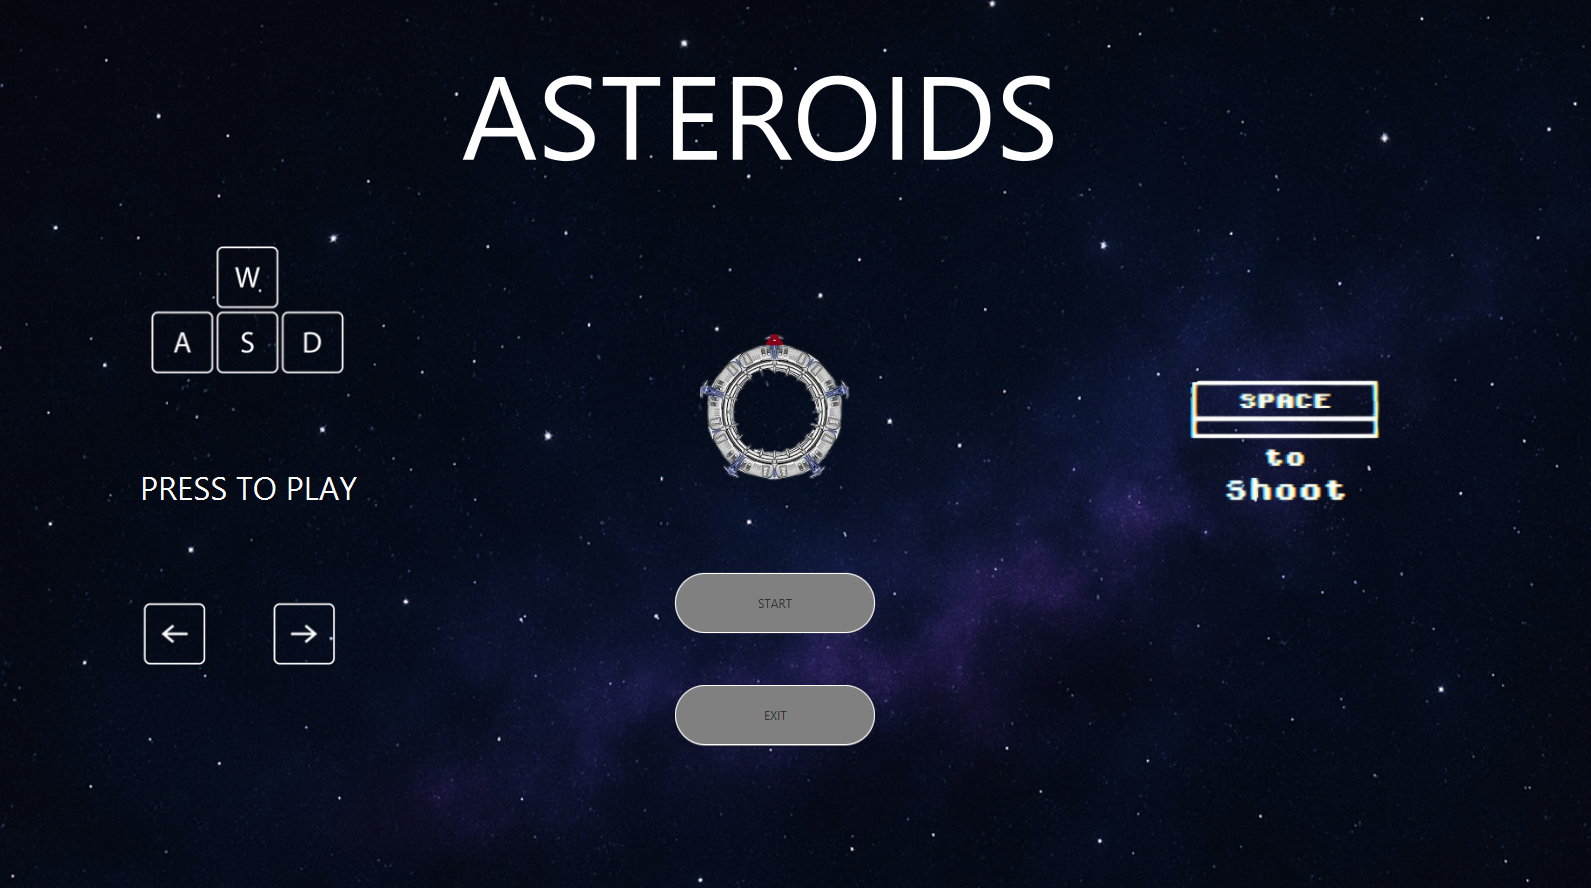
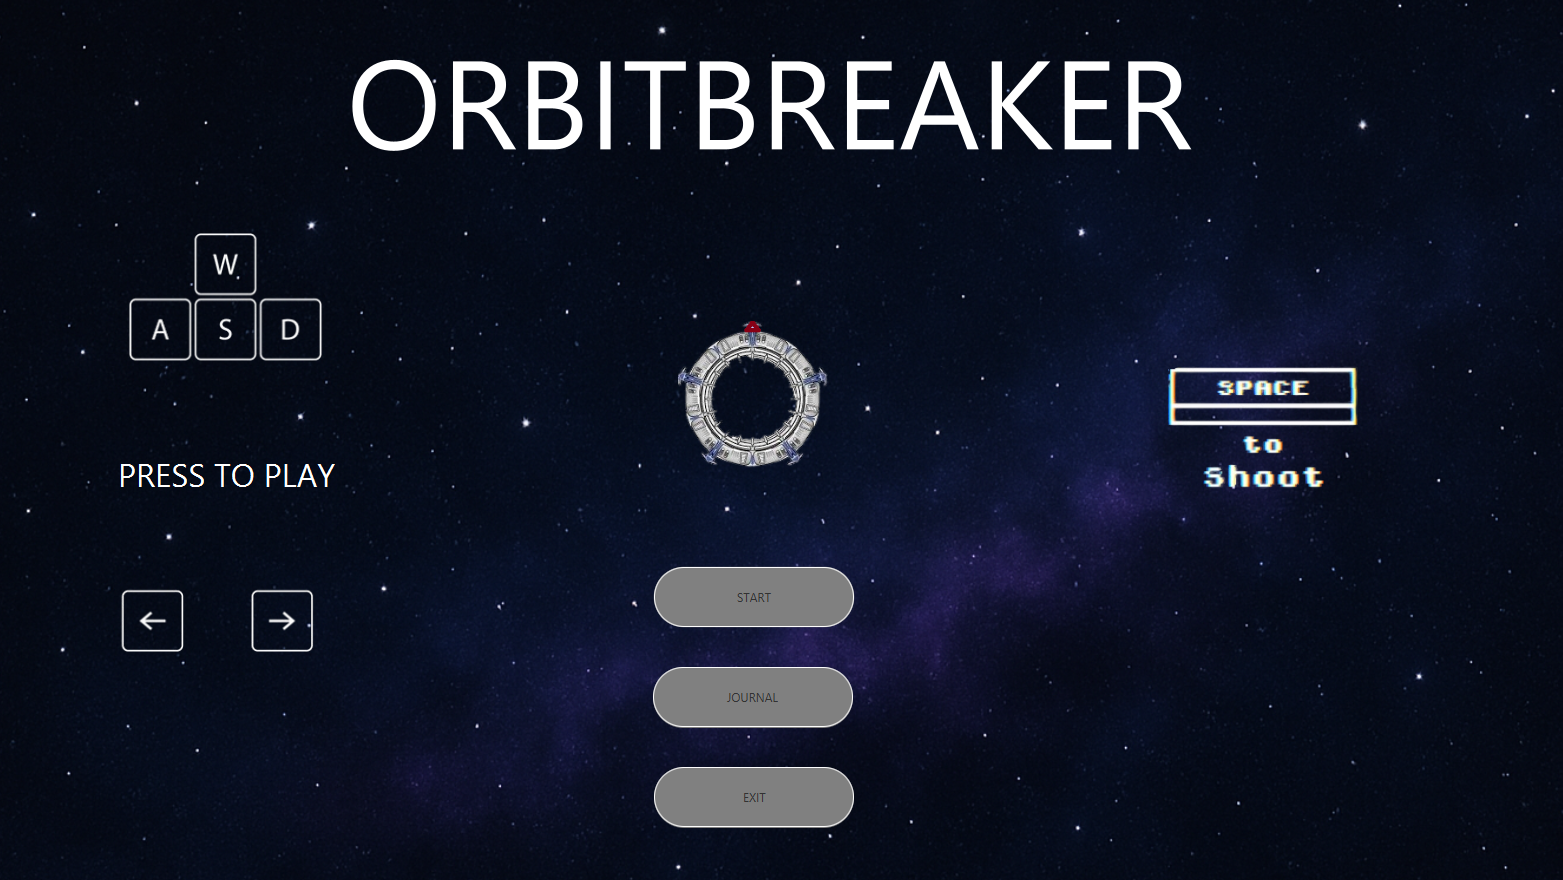
change Readme

diff --git a/README.md b/README.md
@@ -1,4 +1,4 @@
-# Asteroids Game
+# Asteroids-like Game called Orbitbreaker
 
 ## Requirements to Run the Game
 
@@ -34,11 +34,16 @@ A modern take on the classic Asteroids game, built with JavaFX. This is not a di
   - Points system for destroying asteroids
   - Multiple active bullets with despawn timer
   - Collision detection system
+  - Multiple upgreads can be earned to empower your ship
 
 - **Visual Effects**
   - Modern UI with animated title
   - Particle effects for projectiles
   - Death animation with explosion effect
+
+- **Sound Effects**
+  - Lobby Music
+  - Sound effects on hitmarker, shoot etc...
 
 ## Screenshots
 
@@ -72,8 +77,6 @@ A modern take on the classic Asteroids game, built with JavaFX. This is not a di
 - Object-oriented design with inheritance for different asteroid types
 - Efficient collision detection system
 - Dynamic difficulty scaling
-- Particle system for visual effects
-
 ## Development
 
 This is a personal project created for learning and entertainment purposes. The game features custom mechanics while maintaining the spirit of the classic Asteroids game.
